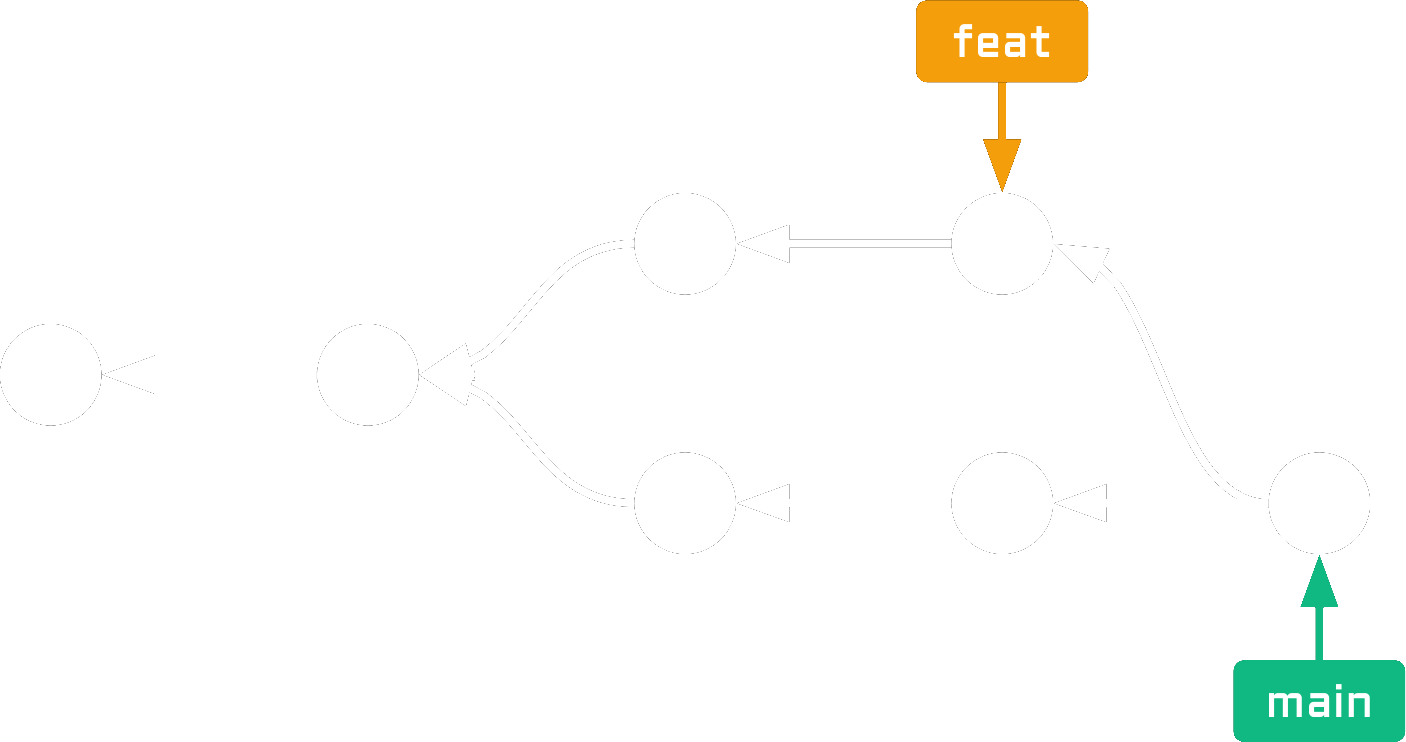
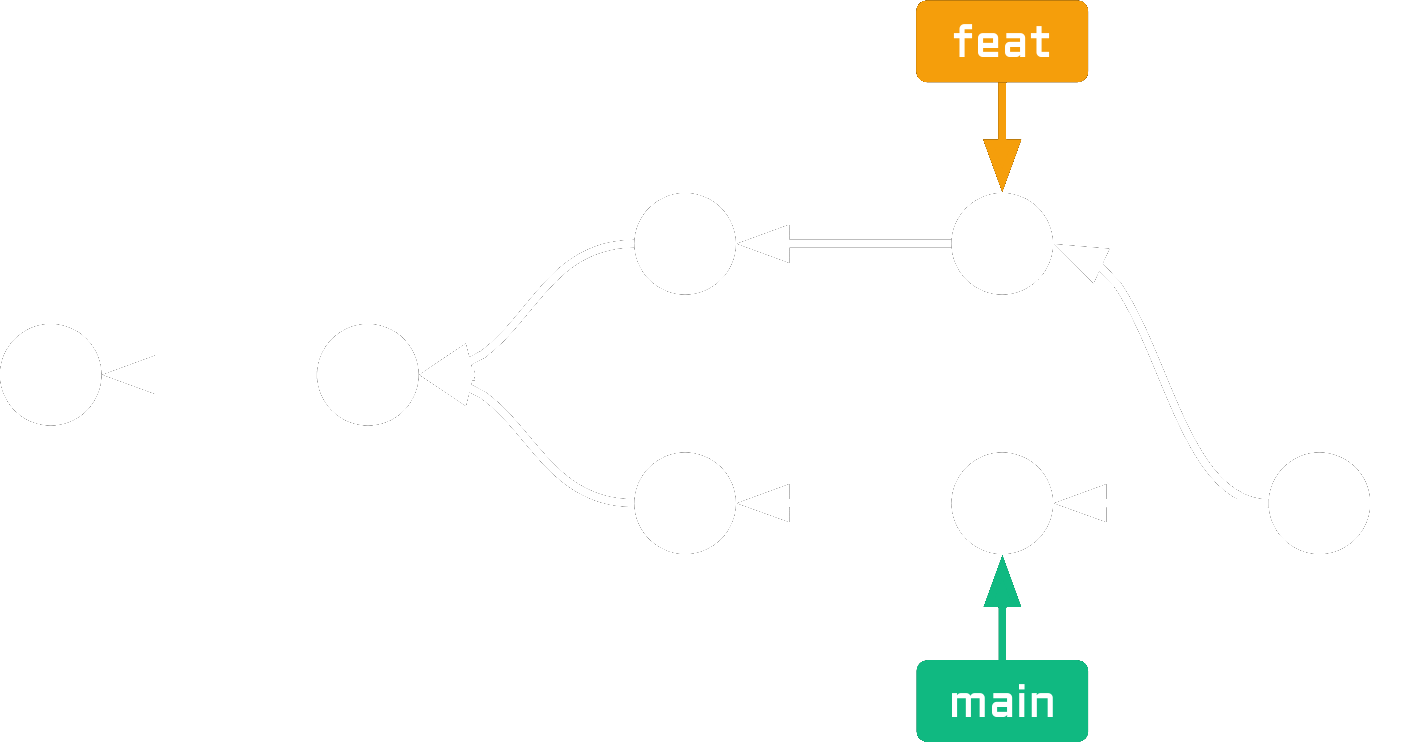
Style and new diagram

Changed region(s): [[0.8563, 0.7439, 1.0, 1.0], [0.6422, 0.7439, 0.7952, 1.0]]

diff --git a/slides/dev_tools.html b/slides/dev_tools.html
@@ -632,8 +632,8 @@
                     <p>Una forma de reducir el riesgo de los deploys automáticos a prod: canary releases! 🐤</p>
                     <ul>
                         <li class="fragment">Esto es bastante común.</li>
-                        <li class="fragment">Se deploya a un pequeño porcentaje de usuarios/servidores, y si todo anda bien, se va aumentando el porcentaje.</li>
-                        <li class="fragment">Si algo anda mal, se corta el deploy y se vuelve a la versión anterior.</li>
+                        <li class="fragment">✅ Se deploya a un pequeño porcentaje de usuarios/servidores, y si todo anda bien, se va aumentando el porcentaje.</li>
+                        <li class="fragment">❌ Si algo anda mal, se corta el deploy y se vuelve a la versión anterior.</li>
                     </ul>
                 </section>
 
